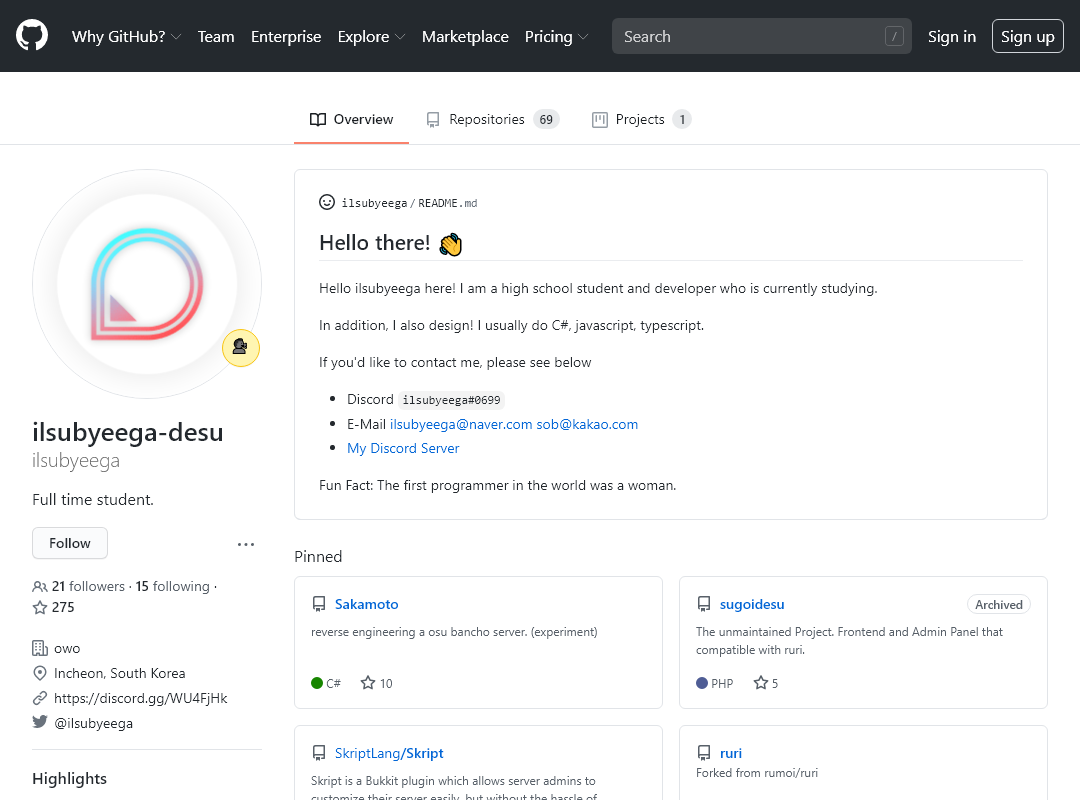
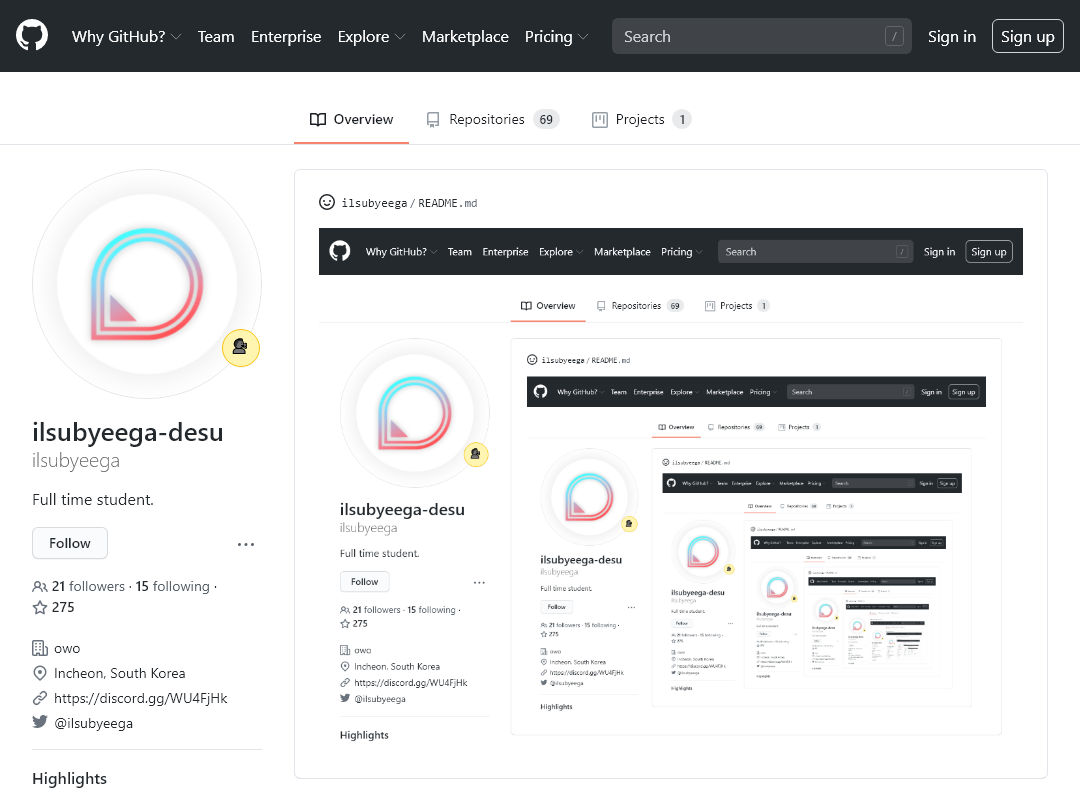
"adds new screenshot at depth 4"

diff --git a/README.md b/README.md
@@ -1,1 +1,1 @@
-![Woah!](https://github.com/ilsubyeega/ilsubyeega/blob/master/screenshot-5.png)
+![Woah!](https://github.com/ilsubyeega/ilsubyeega/blob/master/screenshot-4.png)
